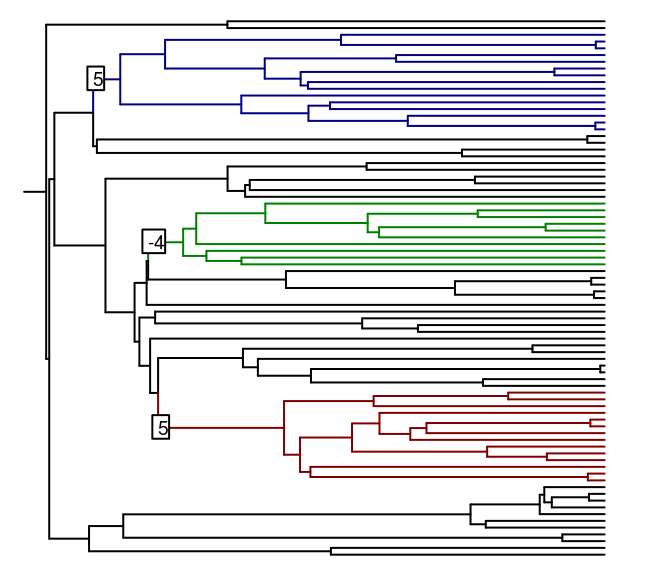
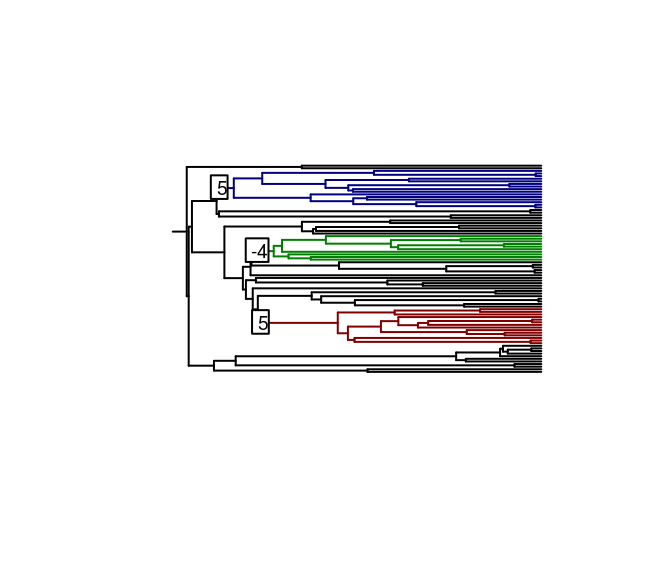
Re-build doc site.

Changed region(s): [[0.0307, 0.0312, 0.9509, 0.9688]]

diff --git a/docs/reference/PhyloEM.html b/docs/reference/PhyloEM.html
@@ -93,11 +93,11 @@ This function can handle missing data.</p>
   <span class='kw'>method.init.alpha</span> <span class='kw'>=</span> <span class='st'>"estimation"</span>,
   <span class='kw'>method.init.alpha.estimation</span> <span class='kw'>=</span> <span class='fu'>c</span>(<span class='st'>"regression"</span>, <span class='st'>"regression.MM"</span>, <span class='st'>"median"</span>),
   <span class='kw'>methods.segmentation</span> <span class='kw'>=</span> <span class='fu'>c</span>(<span class='st'>"lasso"</span>, <span class='st'>"best_single_move"</span>), <span class='kw'>alpha_grid</span> <span class='kw'>=</span> <span class='fl'>TRUE</span>,
-  <span class='kw'>random.root</span> <span class='kw'>=</span> <span class='fl'>TRUE</span>, <span class='kw'>stationary.root</span> <span class='kw'>=</span> <span class='fl'>TRUE</span>, <span class='kw'>alpha</span> <span class='kw'>=</span> <span class='kw'>NULL</span>,
-  <span class='kw'>check.tips.names</span> <span class='kw'>=</span> <span class='fl'>TRUE</span>, <span class='kw'>progress.bar</span> <span class='kw'>=</span> <span class='fl'>TRUE</span>, <span class='kw'>estimates</span> <span class='kw'>=</span> <span class='kw'>NULL</span>,
-  <span class='kw'>save_step</span> <span class='kw'>=</span> <span class='fl'>FALSE</span>, <span class='kw'>sBM_variance</span> <span class='kw'>=</span> <span class='fl'>FALSE</span>, <span class='kw'>method.OUsun</span> <span class='kw'>=</span> <span class='st'>"rescale"</span>,
-  <span class='kw'>parallel_alpha</span> <span class='kw'>=</span> <span class='fl'>FALSE</span>, <span class='kw'>Ncores</span> <span class='kw'>=</span> <span class='fl'>3</span>, <span class='kw'>impute_init_Rphylopars</span> <span class='kw'>=</span> <span class='fl'>FALSE</span>,
-  <span class='kw'>K_lag_init</span> <span class='kw'>=</span> <span class='fl'>5</span>, <span class='kw'>light_result</span> <span class='kw'>=</span> <span class='fl'>TRUE</span>, <span class='no'>...</span>)</pre>
+  <span class='kw'>nbr_alpha</span> <span class='kw'>=</span> <span class='fl'>10</span>, <span class='kw'>random.root</span> <span class='kw'>=</span> <span class='fl'>TRUE</span>, <span class='kw'>stationary.root</span> <span class='kw'>=</span> <span class='fl'>TRUE</span>,
+  <span class='kw'>alpha</span> <span class='kw'>=</span> <span class='kw'>NULL</span>, <span class='kw'>check.tips.names</span> <span class='kw'>=</span> <span class='fl'>TRUE</span>, <span class='kw'>progress.bar</span> <span class='kw'>=</span> <span class='fl'>TRUE</span>,
+  <span class='kw'>estimates</span> <span class='kw'>=</span> <span class='kw'>NULL</span>, <span class='kw'>save_step</span> <span class='kw'>=</span> <span class='fl'>FALSE</span>, <span class='kw'>parallel_alpha</span> <span class='kw'>=</span> <span class='fl'>FALSE</span>,
+  <span class='kw'>Ncores</span> <span class='kw'>=</span> <span class='fl'>3</span>, <span class='kw'>impute_init_Rphylopars</span> <span class='kw'>=</span> <span class='fl'>FALSE</span>, <span class='kw'>K_lag_init</span> <span class='kw'>=</span> <span class='fl'>5</span>,
+  <span class='kw'>light_result</span> <span class='kw'>=</span> <span class='fl'>TRUE</span>, <span class='no'>...</span>)</pre>
     
     <h2 class="hasAnchor" id="arguments"><a class="anchor" href="#arguments"></a> Arguments</h2>
     <dl class="dl-horizontal">
@@ -141,8 +141,8 @@ Need to be positive. Default to 0.1.</dd>
       <dd>Multiplying constant to be used for the BigeMassart2 method.
 Default to 2.5.</dd>
       <dt>C.LINselect</dt>
-      <dd>Multiplying constant to be used for the LINselect method. Need to be
-greater than 1. Default to 1.1.</dd>
+      <dd>Multiplying constant to be used for the LINselect method.
+Need to be greater than 1. Default to 1.1.</dd>
       <dt>method.variance</dt>
       <dd>Algorithm to be used for the moments computations at the
 E step. One of &quot;simple&quot; for the naive method; of &quot;upward_downward&quot; for the 
@@ -174,6 +174,9 @@ is the only available method for scOU. This method is not available for OU with
 multivariate traits. OU with univariate traits can take both TRUE or FALSE. If
 TRUE, a grid based on the branch length of the tree is automatically computed,
 using function <code><a href='find_grid_alpha.html'>find_grid_alpha</a></code>.</dd>
+      <dt>nbr_alpha</dt>
+      <dd>If <code>alpha_grid=TRUE</code>, the number of alpha values on the
+grid. Default to 10.</dd>
       <dt>random.root</dt>
       <dd>Wether the root is assumed to be random (TRUE) of fixed
 (FALSE). Default to TRUE</dd>
@@ -194,16 +197,12 @@ Default to TRUE.</dd>
 function can be re-run for other model election method. Default to NULL.</dd>
       <dt>save_step</dt>
       <dd>If alpha_grid=TRUE, wether to save the intermediate results
-for each value of alpha. Useful for long computations. Default to FALSE.</dd>
-      <dt>sBM_variance</dt>
-      <dd>DEPRECATED. Used for BM equivalent computations. 
+for each value of alpha (in a temporary file). Useful for long computations.
 Default to FALSE.</dd>
-      <dt>method.OUsun</dt>
-      <dd>DEPRECATED. Method to be used in univariate OU.</dd>
       <dt>parallel_alpha</dt>
-      <dd>EXPERIMENTAL If alpha_grid=TRUE, wether to run the 
+      <dd>If alpha_grid=TRUE, wether to run the 
 estimations with different values of alpha on separate cores. Default to 
-FALSE.</dd>
+FALSE. If TRUE, the log is written as a temporary file.</dd>
       <dt>Ncores</dt>
       <dd>If parallel_alpha=TRUE, number of cores to be used.</dd>
       <dt>impute_init_Rphylopars</dt>
@@ -254,6 +253,32 @@ go to their optimum values with the same speed.
 <code><a href='imputed_traits.html'>imputed_traits.PhyloEM</a></code></p>
     
 
+    <h2 class="hasAnchor" id="examples"><a class="anchor" href="#examples"></a>Examples</h2>
+    <pre class="examples"><div class='input'><span class='co'>## Not run: ------------------------------------</span>
+<span class='co'># ## Load Data</span>
+<span class='co'># data(monkeys)</span>
+<span class='co'># ## Run method</span>
+<span class='co'># # Note: use more alpha values for better results.</span>
+<span class='co'># res &lt;- PhyloEM(Y_data = monkeys$dat,        ## data</span>
+<span class='co'>#                phylo = monkeys$phy,         ## phylogeny</span>
+<span class='co'>#                process = "scOU",            ## scalar OU</span>
+<span class='co'>#                random.root = TRUE,          ## root is stationary</span>
+<span class='co'>#                stationary.root = TRUE,</span>
+<span class='co'>#                K_max = 10,                  ## maximal number of shifts</span>
+<span class='co'>#                nbr_alpha = 4,               ## number of alpha values</span>
+<span class='co'>#                parallel_alpha = TRUE,       ## parallelize on alpha values</span>
+<span class='co'>#                Ncores = 2)</span>
+<span class='co'># ## Plot selected solution (LINselect)</span>
+<span class='co'># plot(res) # three shifts</span>
+<span class='co'># ## Plot selected solution (DDSE)</span>
+<span class='co'># plot(res, method.selection = "DDSE") # no shift</span>
+<span class='co'># ## Extract and solution with 5 shifts</span>
+<span class='co'># params_5 &lt;- params_process(res, K = 5)</span>
+<span class='co'># plot(res, params = params_5)</span>
+<span class='co'># ## Show all equivalent solutions</span>
+<span class='co'># eq_sol &lt;- equivalent_shifts(monkeys$phy, params_5)</span>
+<span class='co'># plot(eq_sol)</span>
+<span class='co'>## ---------------------------------------------</span></div></pre>
   </div>
   <div class="col-md-3 hidden-xs hidden-sm" id="sidebar">
     <h2>Contents</h2>
@@ -265,7 +290,9 @@ go to their optimum values with the same speed.
       <li><a href="#details">Details</a></li>
 
       <li><a href="#see-also">See also</a></li>
-          </ul>
+      
+      <li><a href="#examples">Examples</a></li>
+    </ul>
 
   </div>
 </div>

diff --git a/docs/reference/monkeys.html b/docs/reference/monkeys.html
@@ -6,7 +6,7 @@
 <meta http-equiv="X-UA-Compatible" content="IE=edge">
 <meta name="viewport" content="width=device-width, initial-scale=1.0">
 
-<title>Find a reasonable grid for alpha — find_grid_alpha • PhylogeneticEM</title>
+<title>New World Monkeys dataset — monkeys • PhylogeneticEM</title>
 
 <!-- jquery -->
 <script src="https://code.jquery.com/jquery-3.1.0.min.js" integrity="sha384-nrOSfDHtoPMzJHjVTdCopGqIqeYETSXhZDFyniQ8ZHcVy08QesyHcnOUpMpqnmWq" crossorigin="anonymous"></script>
@@ -74,53 +74,42 @@
       <div class="row">
   <div class="col-md-9 contents">
     <div class="page-header">
-    <h1>Find a reasonable grid for alpha</h1>
+    <h1>New World Monkeys dataset</h1>
     </div>
 
     
-    <p>Grid so that 
-ln(2)*quantile(d_ij)/factor_up_alpha &lt; t_1/2 &lt; factor_down_alpha * ln(2) * h_tree
-Ensures that for alpha_min, it is almost a BM, and for alpha_max,
-almost all the tips are decorrelated.</p>
+    <p>Morphometric dataset and phylogeny for brain shape variation of 50 species of
+New World monkeys (platyrrhine).</p>
     
 
-    <pre><span class='fu'>find_grid_alpha</span>(<span class='no'>phy</span>, <span class='kw'>alpha</span> <span class='kw'>=</span> <span class='kw'>NULL</span>, <span class='kw'>nbr_alpha</span> <span class='kw'>=</span> <span class='fl'>10</span>, <span class='kw'>factor_up_alpha</span> <span class='kw'>=</span> <span class='fl'>2</span>,
-  <span class='kw'>factor_down_alpha</span> <span class='kw'>=</span> <span class='fl'>3</span>, <span class='kw'>quantile_low_distance</span> <span class='kw'>=</span> <span class='fl'>1e-04</span>,
-  <span class='kw'>log_transform</span> <span class='kw'>=</span> <span class='fl'>TRUE</span>, <span class='no'>...</span>)</pre>
-    
-    <h2 class="hasAnchor" id="arguments"><a class="anchor" href="#arguments"></a> Arguments</h2>
-    <dl class="dl-horizontal">
-      <dt>phy</dt>
-      <dd>phylogenetic tree of class &quot;<code>phylo</code>&quot;</dd>
-      <dt>alpha</dt>
-      <dd>fixed vector of alpha values if already known. Default to NULL.</dd>
-      <dt>nbr_alpha</dt>
-      <dd>the number of elements in the grid</dd>
-      <dt>factor_up_alpha</dt>
-      <dd>factor for up scalability</dd>
-      <dt>factor_down_alpha</dt>
-      <dd>factor for down scalability</dd>
-      <dt>quantile_low_distance</dt>
-      <dd>quantile for min distance</dd>
-      <dt>log_transform</dt>
-      <dd>whether to take a log scale for the spacing of alpha
-values. Default to TRUE.</dd>
-      <dt>...</dt>
-      <dd>not used.</dd>
-    </dl>
-    
-    <h2 class="hasAnchor" id="value"><a class="anchor" href="#value"></a>Value</h2>
+    <pre><span class='no'>monkeys</span></pre>
+        
+    <h2 class="hasAnchor" id="format"><a class="anchor" href="#format"></a>Format</h2>
 
-    <p>A grid of alpha values</p>
+    <p>A list containing two objects:
+<dl class='dl-horizontal'>
+  <dt>phy</dt><dd>The Phylogenetic tree for the platyrrhine species, pruned to match
+  the species in the morphometric dataset</dd>
+  <dt>dat</dt><dd>First two PC scores from a PCA of the species-averaged Procrustes
+  coordinates</dd>
+</dl></p>
+    
+    <h2 class="hasAnchor" id="references"><a class="anchor" href="#references"></a>References</h2>
+
+    <p>Aristide, L., dos Reis, S. F., Machado, A. C., Lima, I., Lopes, R. T.
+&amp; Perez, S. I. (2016). Brain shape convergence in the adaptive radiation of New
+World monkeys. Proceedings of the National Academy of Sciences, 113(8), 2158–2163.
+http://doi.org/10.1073/pnas.1514473113</p>
     
 
   </div>
   <div class="col-md-3 hidden-xs hidden-sm" id="sidebar">
     <h2>Contents</h2>
     <ul class="nav nav-pills nav-stacked">
-      <li><a href="#arguments">Arguments</a></li>
       
-      <li><a href="#value">Value</a></li>
+      <li><a href="#format">Format</a></li>
+
+      <li><a href="#references">References</a></li>
           </ul>
 
   </div>

diff --git a/docs/reference/estimateEM.html b/docs/reference/estimateEM.html
@@ -142,7 +142,7 @@ items:
 </dl>
 </dd>
       <dt>Nbr_It_Max</dt>
-      <dd>the maximal number of iterations of the EM allowed. Default to 
+      <dd>the maximal number of iterations of the EM allowed. Default to
 500 iterations.</dd>
       <dt>method.variance</dt>
       <dd>Algorithm to be used for the moments computations at the
@@ -179,7 +179,7 @@ Default to FALSE.</dd>
       <dd>tolerance on the selection strength value before switching to a BM.
 Default to 10^(-3).</dd>
       <dt>known.selection.strength</dt>
-      <dd>if <code>alpha_known=TRUE</code>, the value of the 
+      <dd>if <code>alpha_known=TRUE</code>, the value of the
 known selection strength.</dd>
       <dt>init.selection.strength</dt>
       <dd>(optional) a starting point for the selection
@@ -242,15 +242,15 @@ function <code><a href='enumerate_tips_under_edges.html'>enumerate_tips_under_ed
       <dd>(optional) matrix of incidence of the tree, result of function 
 <code><a href='incidence.matrix.html'>incidence.matrix</a></code>.</dd>
       <dt>U_tree</dt>
-      <dd>(optional) full matrix of incidence of the tree, result of function 
+      <dd>(optional) full matrix of incidence of the tree, result of function
 <code><a href='incidence.matrix.full.html'>incidence.matrix.full</a></code>.</dd>
       <dt>h_tree</dt>
       <dd>(optional) total height of the tree.</dd>
       <dt>F_moments</dt>
       <dd>(optional, internal)</dd>
       <dt>tol_half_life</dt>
-      <dd>should the tolerance criterion be applied to the phylogenetic
-half life (TRUE, default) or to the raw selection strength ?</dd>
+      <dd>should the tolerance criterion be applied to the
+phylogenetic half life (TRUE, default) or to the raw selection strength ?</dd>
       <dt>warning_several_solutions</dt>
       <dd>wether to issue a warning if several equivalent
 solutions are found (default to TRUE).</dd>
@@ -261,10 +261,12 @@ tolerance be applied to the raw parameters, or to the renormalized ones ?</dd>
       <dd>should the likelihood be taken into
 consideration for convergence assesment ? (default to TRUE).</dd>
       <dt>sBM_variance</dt>
-      <dd>DEPRECATED. Used for BM equivalent computations. 
-Default to FALSE.</dd>
+      <dd>Is the root of the BM supposed to be random and
+&quot;stationnary&quot;? Used for BM equivalent computations. Default to FALSE.</dd>
       <dt>method.OUsun</dt>
-      <dd>DEPRECATED. Method to be used in univariate OU.</dd>
+      <dd>Method to be used in univariate OU. One of &quot;rescale&quot; 
+(rescale the tree to fit a BM) or &quot;raw&quot; (directly use an OU, only available for
+univariate processes).</dd>
       <dt>impute_init_Rphylopars</dt>
       <dd>Wether to use 
 <code><a href='http://www.rdocumentation.org/packages/Rphylopars/topics/Rphylopars-package'>Rphylopars-package</a></code> for initialization. 

diff --git a/docs/reference/plot.params_process.html b/docs/reference/plot.params_process.html
@@ -92,7 +92,7 @@ with some data at the tips of the tree.</p>
   <span class='kw'>shifts_adj</span> <span class='kw'>=</span> <span class='fl'>0</span>, <span class='kw'>root_adj</span> <span class='kw'>=</span> <span class='fl'>1</span>, <span class='kw'>color_shifts_regimes</span> <span class='kw'>=</span> <span class='fl'>FALSE</span>,
   <span class='kw'>regime_boxes</span> <span class='kw'>=</span> <span class='fl'>FALSE</span>, <span class='kw'>alpha_border</span> <span class='kw'>=</span> <span class='fl'>70</span>, <span class='kw'>show.tip.label</span> <span class='kw'>=</span> <span class='fl'>FALSE</span>,
   <span class='kw'>label_cex</span> <span class='kw'>=</span> <span class='fl'>0.5</span>, <span class='kw'>label_offset</span> <span class='kw'>=</span> <span class='fl'>0</span>, <span class='kw'>axis_cex</span> <span class='kw'>=</span> <span class='fl'>0.7</span>, <span class='kw'>edge.width</span> <span class='kw'>=</span> <span class='fl'>1</span>,
-  <span class='kw'>margin_plot</span> <span class='kw'>=</span> <span class='fu'>c</span>(<span class='fl'>0</span>, <span class='fl'>0</span>, <span class='fl'>0</span>, <span class='fl'>0</span>), <span class='kw'>gray_scale</span> <span class='kw'>=</span> <span class='fl'>FALSE</span>, <span class='no'>...</span>)</pre>
+  <span class='kw'>margin_plot</span> <span class='kw'>=</span> <span class='kw'>NULL</span>, <span class='kw'>gray_scale</span> <span class='kw'>=</span> <span class='fl'>FALSE</span>, <span class='no'>...</span>)</pre>
     
     <h2 class="hasAnchor" id="arguments"><a class="anchor" href="#arguments"></a> Arguments</h2>
     <dl class="dl-horizontal">
@@ -171,13 +171,13 @@ the border of the box. Default to 70.</dd>
       <dt>show.tip.label</dt>
       <dd>whether to show the tip labels. Default to FALSE.</dd>
       <dt>label_cex</dt>
-      <dd>if <code>show.tip.label=TRUE</code>, the size of the labels. default
+      <dd>if <code>show.tip.label=TRUE</code>, the size of the labels. Default
 to 0.5.</dd>
       <dt>label_offset</dt>
       <dd>if <code>show.tip.label=TRUE</code>, the size of the offset between
 the tree and the labels. Default to 0.</dd>
       <dt>axis_cex</dt>
-      <dd>cex for the label values of the plot. Default to 0.8.</dd>
+      <dd>cex for the label values of the plot. Default to 0.7.</dd>
       <dt>edge.width</dt>
       <dd>width of the edge. Default to 1.</dd>
       <dt>margin_plot</dt>

diff --git a/docs/reference/plot.PhyloEM.html b/docs/reference/plot.PhyloEM.html
@@ -92,7 +92,7 @@
   <span class='kw'>shifts_adj</span> <span class='kw'>=</span> <span class='fl'>0</span>, <span class='kw'>root_adj</span> <span class='kw'>=</span> <span class='fl'>1</span>, <span class='kw'>color_shifts_regimes</span> <span class='kw'>=</span> <span class='fl'>FALSE</span>,
   <span class='kw'>regime_boxes</span> <span class='kw'>=</span> <span class='fl'>FALSE</span>, <span class='kw'>alpha_border</span> <span class='kw'>=</span> <span class='fl'>70</span>, <span class='kw'>show.tip.label</span> <span class='kw'>=</span> <span class='fl'>FALSE</span>,
   <span class='kw'>label_cex</span> <span class='kw'>=</span> <span class='fl'>0.5</span>, <span class='kw'>label_offset</span> <span class='kw'>=</span> <span class='fl'>0</span>, <span class='kw'>axis_cex</span> <span class='kw'>=</span> <span class='fl'>0.7</span>, <span class='kw'>edge.width</span> <span class='kw'>=</span> <span class='fl'>1</span>,
-  <span class='kw'>margin_plot</span> <span class='kw'>=</span> <span class='fu'>c</span>(<span class='fl'>0</span>, <span class='fl'>0</span>, <span class='fl'>0</span>, <span class='fl'>0</span>), <span class='kw'>gray_scale</span> <span class='kw'>=</span> <span class='fl'>FALSE</span>, <span class='no'>...</span>)</pre>
+  <span class='kw'>margin_plot</span> <span class='kw'>=</span> <span class='kw'>NULL</span>, <span class='kw'>gray_scale</span> <span class='kw'>=</span> <span class='fl'>FALSE</span>, <span class='no'>...</span>)</pre>
     
     <h2 class="hasAnchor" id="arguments"><a class="anchor" href="#arguments"></a> Arguments</h2>
     <dl class="dl-horizontal">
@@ -170,13 +170,13 @@ the border of the box. Default to 70.</dd>
       <dt>show.tip.label</dt>
       <dd>whether to show the tip labels. Default to FALSE.</dd>
       <dt>label_cex</dt>
-      <dd>if <code>show.tip.label=TRUE</code>, the size of the labels. default
+      <dd>if <code>show.tip.label=TRUE</code>, the size of the labels. Default
 to 0.5.</dd>
       <dt>label_offset</dt>
       <dd>if <code>show.tip.label=TRUE</code>, the size of the offset between
 the tree and the labels. Default to 0.</dd>
       <dt>axis_cex</dt>
-      <dd>cex for the label values of the plot. Default to 0.8.</dd>
+      <dd>cex for the label values of the plot. Default to 0.7.</dd>
       <dt>edge.width</dt>
       <dd>width of the edge. Default to 1.</dd>
       <dt>margin_plot</dt>

diff --git a/docs/reference/enumerate_parsimony.html b/docs/reference/enumerate_parsimony.html
@@ -126,7 +126,7 @@ the tree.</p>
     
 
     <h2 class="hasAnchor" id="examples"><a class="anchor" href="#examples"></a>Examples</h2>
-    <pre class="examples"><div class='input'><span class='no'>tree</span> <span class='kw'>&lt;-</span> <span class='fu'>read.tree</span>(<span class='kw'>text</span><span class='kw'>=</span><span class='st'>"(((0,1),2),2);"</span>)
+    <pre class="examples"><div class='input'><span class='no'>tree</span> <span class='kw'>&lt;-</span> <span class='fu'>read.tree</span>(<span class='kw'>text</span><span class='kw'>=</span><span class='st'>"(((A,B),C),D);"</span>)
 <span class='fu'>plot</span>(<span class='no'>tree</span>)</div><img src='enumerate_parsimony-2.png' alt='' width='540' height='400' /><div class='input'><span class='no'>clusters</span> <span class='kw'>&lt;-</span> <span class='fu'>c</span>(<span class='fl'>0</span>, <span class='fl'>1</span>, <span class='fl'>2</span>, <span class='fl'>2</span>)
 <span class='no'>sols</span> <span class='kw'>&lt;-</span> <span class='fu'>enumerate_parsimony</span>(<span class='no'>tree</span>, <span class='no'>clusters</span>)
 <span class='fu'>plot</span>(<span class='no'>sols</span>)</div><img src='enumerate_parsimony-4.png' alt='' width='540' height='400' /><div class='input'>

diff --git a/docs/index.html b/docs/index.html
@@ -70,7 +70,7 @@ devtools::<span class="kw">install_github</span>(<span class="dt">repo =</span> 
 </ul><html><body><h2>Dev status</h2><ul class="list-unstyled"><li><a href="https://travis-ci.org/pbastide/PhylogeneticEM">
   <img src="https://travis-ci.org/pbastide/PhylogeneticEM.svg?branch=develop" alt="Travis-CI Build Status"></a></li>
 <li><a href="http://pbastide.github.io/PhylogeneticEM/">
-  <img src="https://img.shields.io/badge/docs-vignettes-blue.svg" alt=""></a></li>
+  <img src="https://img.shields.io/badge/docs-vignettes-blue.svg"></a></li>
 <li><a href="https://codecov.io/gh/pbastide/PhylogeneticEM">
   <img src="https://codecov.io/gh/pbastide/PhylogeneticEM/branch/develop/graph/badge.svg" alt="codecov"></a></li>
 <li><a href="https://cran.r-project.org/package=PhylogeticEM">

diff --git a/docs/reference/model_selection.html b/docs/reference/model_selection.html
@@ -108,8 +108,8 @@ Need to be positive. Default to 0.1.</dd>
       <dd>Multiplying constant to be used for the BigeMassart2 method.
 Default to 2.5.</dd>
       <dt>C.LINselect</dt>
-      <dd>Multiplying constant to be used for the LINselect method. Need to be
-greater than 1. Default to 1.1.</dd>
+      <dd>Multiplying constant to be used for the LINselect method.
+Need to be greater than 1. Default to 1.1.</dd>
       <dt>independent</dt>
       <dd>Are the trait assumed to be independent from one another?
 Default to FALSE. OU in a multivariate setting only works if TRUE.</dd>

diff --git a/docs/articles/tutorial.html b/docs/articles/tutorial.html
@@ -38,7 +38,7 @@
       <h1>An Introduction to the PhylogeneticEM Package</h1>
                         <h4 class="author">Paul Bastide</h4>
             
-            <h4 class="date">2017-01-02</h4>
+            <h4 class="date">2017-01-30</h4>
           </div>
 
     
